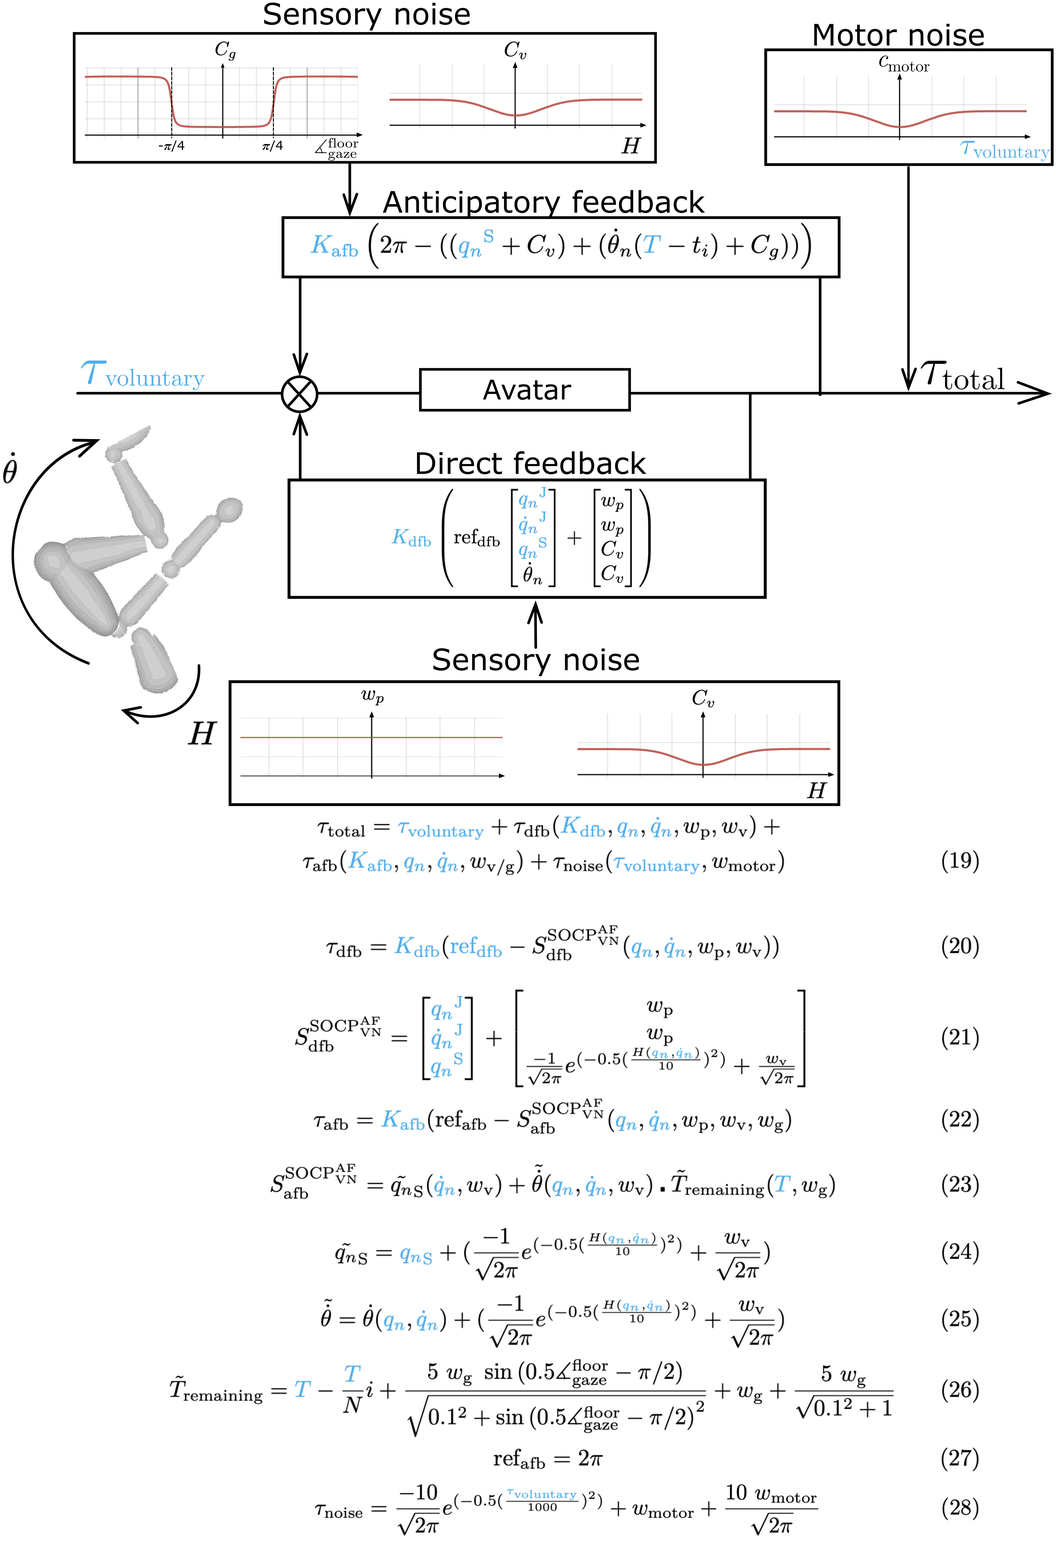
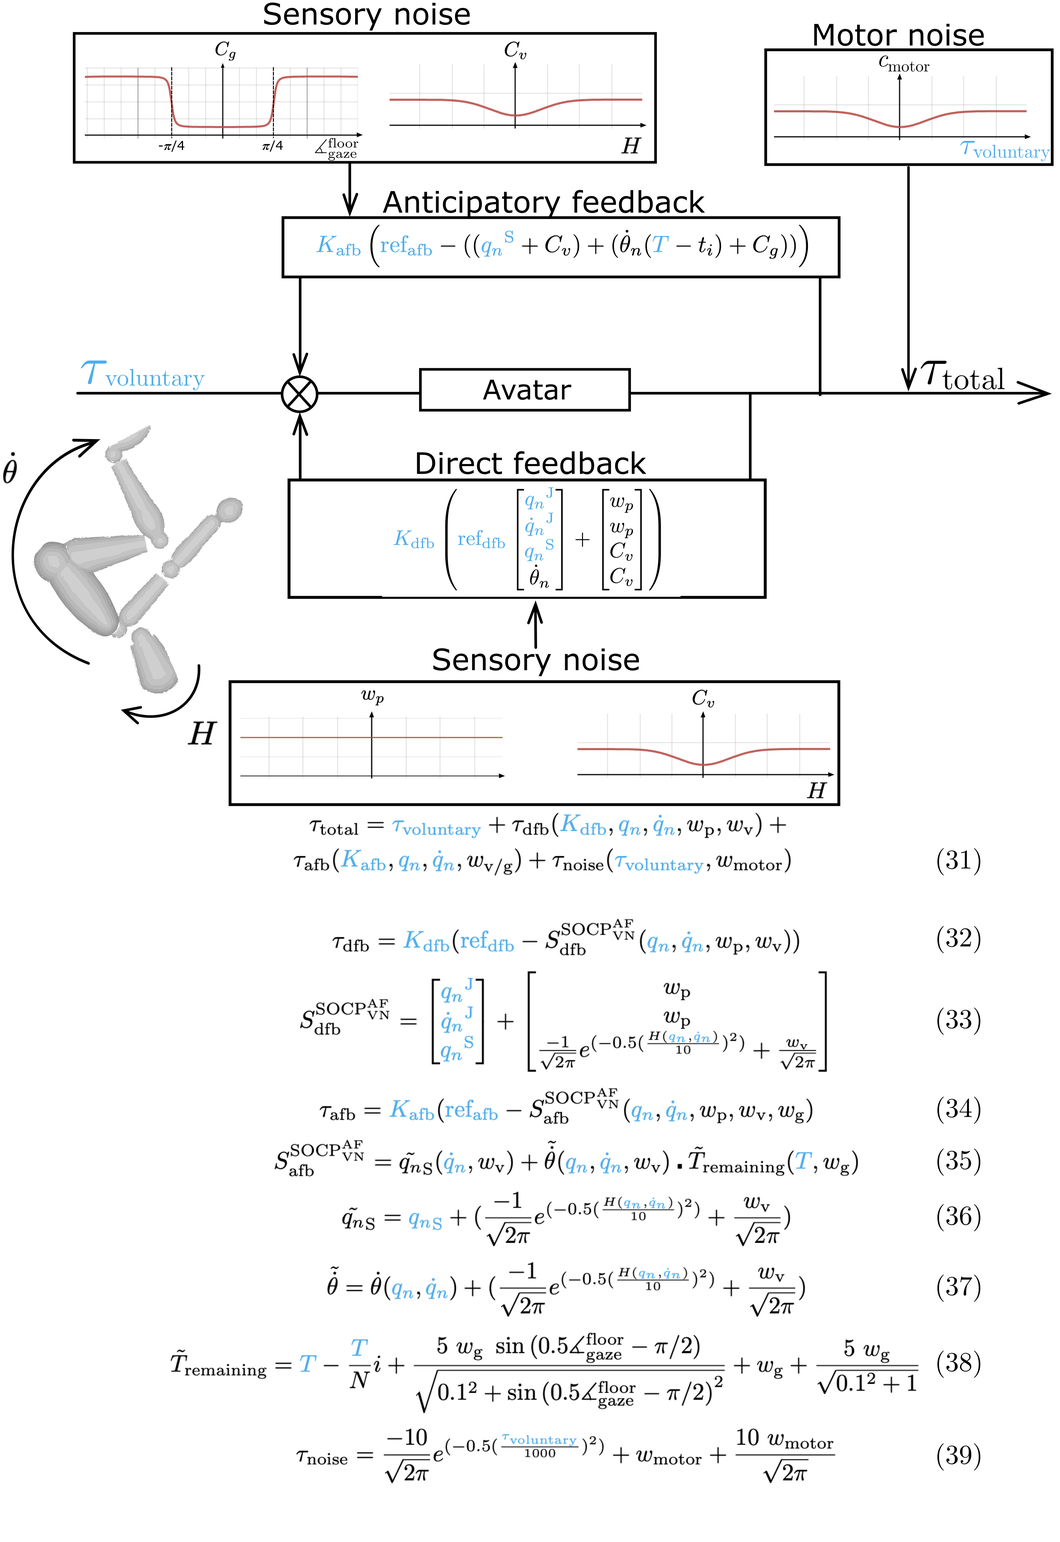
Final modifs before resending to co-authors

diff --git a/paper/plos_root.tex b/paper/plos_root.tex
@@ -312,7 +312,7 @@ One way humans cope with neuromuscular noise is by relying on sensory feedback t
 Leveraging optimal feedback control theory, these motor corrections have been incorporated into biomechanical predictive simulations by modelling motor noise and noisy sensory feedback \cite{todorov2004optimality}. 
 More recently, this stochastic optimal control framework was extended to complex musculoskeletal models with non-linear dynamics \cite{van2022approximate}. 
 This approach helped explain more complex motor control phenomena, such as how muscle co-contraction can be energy-efficient by helping cope with uncertainty \cite{van2022approximate, berret2024co}.
-However, even with these advances, current biomechanical stochastic predictive simulations still fall short of modelling sensory-acquisition strategies because \hl{the modelling of either the relationship between the states and sensory noise \mbox{\cite{van2022approximate}} or the system's dynamics \mbox{\cite{todorov2005stochastic}} is simplified}.
+However, even with these advances, current biomechanical stochastic predictive simulations still fall short of modelling sensory-acquisition strategies because \hl{they simplify the modelling of either the relationship between the states and sensory noise \mbox{\cite{van2022approximate}} or the system's dynamics \mbox{\cite{todorov2005stochastic}}}.
 
 
 Although sensory noise is difficult to measure experimentally, there is still evidence that sensory sensitivity depends on the state of the body \cite{mallery2010human, demer1993dynamic, kaptein2004interpretation}.
@@ -335,7 +335,7 @@ Proprioceptive information would be used by athletes to estimate their current j
 Visual information would be used to estimate the remaining time before ground contact \cite{bardy1998body}, and vestibular information would be used to estimate the athlete's somersault velocity.
 Combining these two pieces of information with proprioceptive information would enable anticipatory sensory feedback control through a forward model predicting the somersault angle at landing.
 These two types of feedback help athletes land with more balance by modifying inertia to adjust the somersault rotation velocity.
-\hl{Stochastic optimal control simulations generally only rely on open-loop control and direct sensory feedback control to actuate the skeletal model \mbox{\cite{van2022approximate, berret2024co}}, leaving aside anticipatory sensory feedback control.}
+\hl{Stochastic optimal control simulations generally rely only on open-loop control and direct sensory feedback control to actuate the skeletal model \mbox{\cite{van2022approximate, berret2024co}}, leaving aside anticipatory sensory feedback control.}
 Given evidence that athletes use anticipatory sensory feedback control during backward somersaults, predictive simulations must account for such control mechanisms.
 
 % Another shortcoming of the current implementations of stochastic optimal control is that they consider constant motor noise.
@@ -359,8 +359,7 @@ To better match and thus better understand athletes' behaviour, further predicti
 
 The primary aim of this study was to produce a predictive simulation from which an optimal sensorimotor strategy for the backward somersault would emerge.
 A torque-driven multi-body model governed by nonlinear dynamics under uncertainty was used.
-\hl{To cope with the motor noise, the avatar could use noisy vestibular, visual and proprioceptive information.
-These sensory information were used for direct and anticipatory feedback corrections.}
+\hl{To cope with the motor noise, the avatar could use noisy vestibular, visual, and proprioceptive information. This sensory information was used for direct and anticipatory feedback corrections.}
 We hypothesized that 
 \begin{itemize}
 	\item[\textbf{H1}] allowing the avatar to use direct sensory feedback would enable reducing landing variability;
@@ -410,13 +409,13 @@ The digital athlete was torque-actuated and governed by the non-linear multibody
 Whereas for the stochastic implementations (SOCP, \mbox{SOCP$_{\text{VN}}$}, \mbox{SOCP$^{\text{AF}}$}, \mbox{SOCP$_{\text{VN}}^{\text{AF}}$}) multiple techniques corrupted by different noise values were optimized simultaneously to find a unique control strategy (open-loop joint torques and feedback gains) that optimizes the performance of all techniques.}
 	
 The optimal policies were computed using a composite cost function, where the main objective was to minimize landing condition variability \hl{(\mbox{$\phi_1$})}, measured as the sum of the variances (n=20) of the CoM horizontal position \hl{in \mbox{$m$}}, CoM horizontal velocity in \hl{\mbox{$\nicefrac{m}{s}$}}, and body angular velocity \hl{(computed as the angular momentum divided by the moment of inertia)} in \mbox{$\nicefrac{rad}{s}$} at the end of the movement.
-Other terms minimized the expected efforts \hl{(\mbox{$\phi_2$})}; \hl{joint torques in \mbox{$Nm$}}) and the expected \hl{time derivative of} efforts \hl{(\mbox{$\phi_3$})}; \hl{joint torques derivative in \mbox{$\nicefrac{Nm}{s}$}}).
+Other terms minimized the expected efforts \hl{(\mbox{$\phi_2$}; joint torques in \mbox{$Nm$})} and the expected \hl{time derivative of} efforts \hl{(\mbox{$\phi_3$}; joint torques derivative in \mbox{$\nicefrac{Nm}{s}$})}.
 Finally, regularization terms encouraged a realistic motion: minimizing the direct feedback gains \hl{(\mbox{$\phi_4$})}, the \hl{time derivative of the} direct feedback gains \hl{(\mbox{$\phi_5$})}, and the duration of the movement \hl{in \mbox{$s$}} to avoid landing in a crouched posture \hl{(\mbox{$\phi_6$})}.
-\hl{For the deterministic implementation (OCP), the landing condition variability (\mbox{$\phi_1$}), feedback gains (\mbox{$\phi_4$}), and time derivative of the direct feedback gains (\mbox{$\phi_5$}) terms were set to zero in the cost function. However, to compare the robustness of this technique with the other implementations, the landing condition variability was computed post-optimization. Motor noise was randomly sampled and added to the optimal joint torques and a series of forward simulations were performed.}
+\hl{For the deterministic implementation (OCP), the landing condition variability (\mbox{$\phi_1$}), feedback gains (\mbox{$\phi_4$}), and time derivative of the direct feedback gains (\mbox{$\phi_5$}) terms were set to zero in the cost function. However, to compare the robustness of this technique with the other implementations, the landing condition variability was computed post-optimization. Motor noise was randomly sampled and added to the optimal joint torques, and a series of forward simulations was performed.}
 
 An optimal solution was reached for all implementations.
 %, despite the large problem sizes (OCP: 303 variables, SOCP: 5625 variables, SOCP$_{\text{VN}}$: 5625 variables, SOCP$^{\text{AF}}$: 6562 variables, SOCP$_{\text{VN}}^{\text{AF}}$: 6562 variables).
-The optimization lasted a few seconds for the deterministic version (OCP), and in a few weeks for the stochastic versions (SOCP, SOCP$_{\text{VN}}$, SOCP$^{\text{AF}}$, SOCP$_{\text{VN}}^{\text{AF}}$).
+The optimization lasted a few seconds for the deterministic version (OCP), and a few weeks for the stochastic versions (SOCP, SOCP$_{\text{VN}}$, SOCP$^{\text{AF}}$, SOCP$_{\text{VN}}^{\text{AF}}$).
 \hl{The optimal cost differed between implementation (OCP: 331.25, SOCP: 4928.34, \mbox{SOCP$_{\text{VN}}$}: 106.26, \mbox{SOCP$^{\text{AF}}$}: 98.52, \mbox{SOCP$_{\text{VN}}^{\text{AF}}$}: 87.70), with \mbox{SOCP$_{\text{VN}}^{\text{AF}}$} reaching the lowest cost function value.}
 
 
@@ -438,7 +437,7 @@ The smallest landing variability was achieved with the SOCP$_{\text{VN}}^{\text{
 
 \begin{figure}[H]
 \centering
-\includegraphics[width=1.0\linewidth]{figures/landing_variability.png}
+\includegraphics[width=1.0\linewidth]{figures/landing_variability_abcd.png}
 \caption{The three landing components (\hl{a)} center of mass horizontal position, \hl{b)} center of mass horizontal velocity, and \hl{c)} body angular velocity) with their variability (n=20 episodes) for the backward somersault generated with the \textcolor{OCP_color}{OCP} (green), \textcolor{SOCP_color}{SOCP} (pink), \textcolor{SOCP_VARIABLE_color}{SOCP$_{\text{VN}}$} (orange), \textcolor{SOCP_FEEDFORWARD_color}{SOCP$^{\text{AF}}$} (purple), and \textcolor{SOCP_plus_color}{SOCP$_{\text{VN}}^{\text{AF}}$} (blue) implementations. The value for each episode is depicted with a dot, the mean over all episodes is depicted with a square, and the standard deviation range is depicted with a box and written above the box plot. \hl{d) The weighted sum of all landing variability terms for each implementation.}}
 \label{fig:landing_variability}
 \end{figure}
@@ -577,7 +576,7 @@ In line with our fourth hypothesis (H4), \hl{the optimal technique of our most a
 \hl{Anticipatory feedback gains generally increased during periods of higher visual and vestibular acuity, the former provided by the gaze-on-floor strategy and the latter by the head stabilization strategy. This suggests that these kinematic features may have a sensory acquisition origin.}
 
 \hl{However, a contradictory result emerged from the stochastic implementation with only anticipatory feedback (\mbox{SOCP$^{\text{AF}}$}).
-It exhibited a similar temporal evolution of anticipatory feedback gains, despite sensory acuity being modelled as independent from the state variables.
+It exhibited a similar temporal evolution of anticipatory feedback gains as \mbox{SOCP$_{\text{VN}}^{\text{AF}}$}, despite sensory acuity being modelled as independent from the state variables.
 Thus, head stabilization and gaze-on-floor strategies have no effect on sensory noise in this condition. 
 This unexpected result indicates that the anticipatory feedback gain temporal evolution may also have a biomechanical origin. 
 Notably, high gains coincided with hip flexion moments, which must be precisely executed to achieve consistent landing.
@@ -642,7 +641,7 @@ F(q, \dot{q}) :
 
 \subsection{Discretized stochastic optimal control framework}\label{subsec:methods_DSOCP}
 
-To transcribe the stochastic optimal control problems into a solvable deterministic optimal control problem, the motor and sensory noises were sampled from a Gaussian distribution at 20 different instances, as in \cite{afschrift2018increased, koelewijn2020solution}.
+To transcribe the stochastic optimal control problems into a solvable deterministic optimal control problem, the motor and sensory noises were sampled from a Gaussian distribution at 20 different instances, as in \hl{\mbox{\cite{afschrift2018increased, koelewijn2020solution}}}.
 \hl{In other words, we solved for a common motor plan (\mbox{$\textcolor{gray}{\tau_{\text{voluntary}}}$} and \mbox{$\textcolor{gray}{K}$}} \footnote{\hl{To simplify interpretation, each optimization variable is presented in colour.}}) \hl{controlling 20 executions of the task, each with different random motor and sensory noise values and thus different state values.}
 The number of noise samples (referred to as episodes) was chosen based on the analysis in Koelewijn \& Van den Bogert \cite{koelewijn2020solution}.
 They showed that the cost function value varied by less than 1\% when using 20 or more samples.The constant part of the motor and sensory noises ($w_{\circ}$) were sampled from a Gaussian distribution with a standard deviation of \hl{\mbox{$0.125~Nm\sqrt{s}$}} for the joint torque motor noise, \hl{\mbox{$\num{7.16e-4}\degree\sqrt{s}$}} for the joint angle proprioception, \hl{\mbox{$\num{6.45e-3}\degree/\sqrt{s}$}} for the joint velocity proprioception inputs, \hl{\mbox{$\num{7.16e-4}\degree\sqrt{s}$}} and \hl{\mbox{$\num{7.16e-4}\degree/\sqrt{s}$}} for the vestibular input, and \hl{\mbox{$\num{1.25e-5}~s^{\nicefrac{3}{2}}$}} for the visual inputs. 
@@ -747,7 +746,7 @@ The torques applied to the joints were only composed of the voluntary motor comm
 \begin{figure}[H]
 \centering
 \includegraphics[width=1.0\linewidth]{figures/ocp.png}
-\caption{A schematic and mathematical representation of the torques applied to the joints in the OCP implementation, with equation 2.}
+\caption{A schematic and mathematical representation of the torques applied to the joints in the OCP implementation, with equation 15.}
 \label{fig:ocp}
 \end{figure}
 
@@ -810,13 +809,13 @@ The sensory information was corrupted by random noise (\hl{proprioceptive noise}
 \begin{figure}[H]
 \centering
 \includegraphics[width=1.0\linewidth]{figures/socp.png}
-\caption{A schematic and mathematical representation of the torques applied to the joints in the SOCP implementation, with equations 3-6. The $._n$ indices relate to the $n^{th}$ episode.}
+\caption{A schematic and mathematical representation of the torques applied to the joints in the SOCP implementation, with equations 16-19. The $._n$ indices relate to the $n^{th}$ episode.}
 \label{fig:socp}
 \end{figure}
 
 
 \newpage
-\subsubsection{Stochastic optimal control problem with variable noises (\textcolor{SOCP_VARIABLE_color}{SOCP$_{\text{VN}}$})}\label{subsec:SOCPV}
+\subsubsection{Stochastic optimal control problem with variable-dependent noise (\textcolor{SOCP_VARIABLE_color}{SOCP$_{\text{VN}}$})}\label{subsec:SOCPV}
 Our first improvement to the SOCP implementation was to consider signal-dependent ($\textcolor{SOCP_VARIABLE_color}{\tau_{\text{voluntary}}}$) motor noise and state-dependent ($\textcolor{SOCP_VARIABLE_color}{q}, \textcolor{SOCP_VARIABLE_color}{\dot{q}}$) sensory noise (Fig.~\ref{fig:socp_variable}).
 The torques applied to the joints were composed of the voluntary motor command ($\textcolor{SOCP_VARIABLE_color}{\tau_{\text{voluntary}}}$), direct feedback corrections ($\tau_{\text{dfb}}$), and motor noise ($\tau_{\text{noise}}$).
 The direct feedback corrections were identical to those in the SOCP implementation.
@@ -875,7 +874,7 @@ The motor command was corrupted by signal-dependent random noise ($c_{motor}$) t
 \begin{figure}[H]
 \centering
 \includegraphics[width=1.0\linewidth]{figures/socp_variable.png}
-\caption{A schematic and mathematical representation of the torques applied to the joints in the SOCP$_{\text{VN}}$ implementation, with equations 7-10.}
+\caption{A schematic and mathematical representation of the torques applied to the joints in the SOCP$_{\text{VN}}$ implementation, with equations 20-23.}
 \label{fig:socp_variable}
 \end{figure}
 
@@ -893,7 +892,7 @@ The random motor and sensory noise were directly sampled from a Gaussian distrib
 
 
 % \begin{equation}
-% \textcolor{SOCP_FEEDFORWARD_color}{K_{\text{dfb}}} \left({\text{ref}}_{\text{dfb}} 
+% \textcolor{SOCP_FEEDFORWARD_color}{K_{\text{dfb}}} \left(\textcolor{SOCP_FEEDFORWARD_color}{{\text{ref}}_{\text{dfb}}} 
 % \begin{bmatrix}
 % \textcolor{SOCP_FEEDFORWARD_color}{{q_n}^{\text{J}}} \\
 % \textcolor{SOCP_FEEDFORWARD_color}{\mathop{\dot{q}_n}^{\text{J}}} \\
@@ -910,7 +909,7 @@ The random motor and sensory noise were directly sampled from a Gaussian distrib
 % \end{equation}
 
 % \begin{equation}
-% \textcolor{SOCP_FEEDFORWARD_color}{K_{\text{afb}}} \left(2\pi - (\textcolor{SOCP_FEEDFORWARD_color}{{q_n}^{\text{S}}} + \dot{\theta}_n (\textcolor{SOCP_FEEDFORWARD_color}{T} - t_i)) + w_v \right)
+% \textcolor{SOCP_FEEDFORWARD_color}{K_{\text{afb}}} \left(\textcolor{SOCP_FEEDFORWARD_color}{\text{ref}_{\text{afb}}} - (\textcolor{SOCP_FEEDFORWARD_color}{{q_n}^{\text{S}}} + \dot{\theta}_n (\textcolor{SOCP_FEEDFORWARD_color}{T} - t_i)) + w_v \right)
 % \end{equation}
 
 % \begin{eqnarray}
@@ -935,7 +934,7 @@ The random motor and sensory noise were directly sampled from a Gaussian distrib
 % \end{bmatrix}
 % \end{equation}
 % \begin{equation}
-% \tau_{\text{afb}} = \textcolor{SOCP_FEEDFORWARD_color}{K_{\text{afb}}} (\text{ref}_{\text{afb}} - S_{\text{afb}}^{\text{SOCP}^{\text{AF}}}(\textcolor{SOCP_FEEDFORWARD_color}{q_n}, \textcolor{SOCP_FEEDFORWARD_color}{\dot{q}_n}, w_{\text{p}}, w_{\text{v/g}})
+% \tau_{\text{afb}} = \textcolor{SOCP_FEEDFORWARD_color}{K_{\text{afb}}} (\textcolor{SOCP_FEEDFORWARD_color}{\text{ref}_{\text{afb}}} - S_{\text{afb}}^{\text{SOCP}^{\text{AF}}}(\textcolor{SOCP_FEEDFORWARD_color}{q_n}, \textcolor{SOCP_FEEDFORWARD_color}{\dot{q}_n}, w_{\text{p}}, w_{\text{v/g}})
 % \end{equation}
 % \begin{equation}
 % S_{\text{afb}}^{\text{SOCP}^{\text{AF}}} = \textcolor{SOCP_FEEDFORWARD_color}{{q_n}_{\text{S}}} + \dot{\theta}(\textcolor{SOCP_FEEDFORWARD_color}{q_n}, \textcolor{SOCP_FEEDFORWARD_color}{\dot{q}_n}) \centerdot T_{\text{remaining}}(\textcolor{SOCP_FEEDFORWARD_color}{T}) + w_{\text{v/g}}
@@ -944,22 +943,19 @@ The random motor and sensory noise were directly sampled from a Gaussian distrib
 % \tilde{T}_{\text{remaining}} = \textcolor{SOCP_FEEDFORWARD_color}{T} - t_i
 % \end{equation}
 % \begin{equation}
-% \text{ref}_{\text{afb}} = 2\pi
-% \end{equation}
-% \begin{equation}
 % \tau_{\text{noise}} = w_{\text{motor}}
 % \end{equation}
 
 \begin{figure}[H]
 \centering
 \includegraphics[width=1.0\linewidth]{figures/socp_feedforward.png}
-\caption{A schematic and mathematical representation of the torques applied to the joints in the SOCP$^{\text{AF}}$ implementation, with equations 11-18. The index ${.}_i$ relates to the $i^{th}$ shooting node.}
+\caption{A schematic and mathematical representation of the torques applied to the joints in the SOCP$^{\text{AF}}$ implementation, with equations 24-30. The index ${.}_i$ relates to the $i^{th}$ shooting node.}
 \label{fig:socp_feedforward}
 \end{figure}
 
 
 \newpage
-\subsubsection{Stochastic optimal control problem with anticipatory feedback and variable noises (\textcolor{SOCP_plus_color}{SOCP$_{\text{VN}}^{\text{AF}}$})}\label{subsec:SOCP_plus}
+\subsubsection{Stochastic optimal control problem with anticipatory feedback and variable-dependent noise (\textcolor{SOCP_plus_color}{SOCP$_{\text{VN}}^{\text{AF}}$})}\label{subsec:SOCP_plus}
 Our most advanced stochastic implementation considered signal-dependent ($\textcolor{SOCP_plus_color}{\tau_{\text{voluntary}}}$) motor noise and state-dependent ($\textcolor{SOCP_plus_color}{q}, \textcolor{SOCP_plus_color}{\dot{q}}$) sensory noise (Fig.~\ref{fig:socp_plus}) and anticipatory feedback corrections ($\tau_{\text{afb}}$), \textit{i.e.}, the combination of the improvements from SOCP$_{\text{VN}}$ anf SOCP$^{\text{AF}}$.
 The torques applied to the joints were also composed of the voluntary motor command ($\textcolor{SOCP_plus_color}{\tau_{\text{voluntary}}}$), direct feedback corrections ($\tau_{\text{dfb}}$), and motor noise ($\tau_{\text{noise}}$).
 The direct feedback corrections were identical to those of the SOCP implementation, and the anticipatory feedback corrections were identical to those of the SOCP$^{\text{AF}}$ implementation.
@@ -968,7 +964,7 @@ The direct feedback corrections were identical to those of the SOCP implementati
 The motor command was corrupted by signal-dependent random noise ($c_{motor}$) through an inverted Gaussian function, such that the precision of the joint torques decreased as the voluntary motor command increased.
 
 % \begin{equation}
-% \textcolor{SOCP_plus_color}{K_{\text{dfb}}} \left({\text{ref}}_{\text{dfb}} 
+% \textcolor{SOCP_plus_color}{K_{\text{dfb}}} % \left(\textcolor{SOCP_plus_color}{{\text{ref}}_{\text{dfb}}}
 % \begin{bmatrix}
 % \textcolor{SOCP_plus_color}{{q_n}^{\text{J}}} \\
 % \textcolor{SOCP_plus_color}{\mathop{\dot{q}_n}^{\text{J}}} \\
@@ -985,7 +981,7 @@ The motor command was corrupted by signal-dependent random noise ($c_{motor}$) t
 % \end{equation}
 
 % \begin{equation}
-% \textcolor{SOCP_plus_color}{K_{\text{afb}}} \left(2\pi - ((\textcolor{SOCP_plus_color}{{q_n}^{\text{S}}} + C_v) + (\dot{\theta}_n (\textcolor{SOCP_plus_color}{T} - t_i) + C_g)) \right)
+% \textcolor{SOCP_plus_color}{K_{\text{afb}}} \left(\textcolor{SOCP_plus_color}{\text{ref}_{\text{afb}}} - ((\textcolor{SOCP_plus_color}{{q_n}^{\text{S}}} + C_v) + (\dot{\theta}_n (\textcolor{SOCP_plus_color}{T} - t_i) + C_g)) \right)
 % \end{equation}
 
 % \begin{eqnarray}
@@ -1011,7 +1007,7 @@ The motor command was corrupted by signal-dependent random noise ($c_{motor}$) t
 % \end{bmatrix}
 % \end{equation}
 % \begin{equation}
-% \tau_{\text{afb}} = \textcolor{SOCP_plus_color}{K_{\text{afb}}} (\text{ref}_{\text{afb}} - S_{\text{afb}}^{\text{SOCP}_{\text{VN}}^{\text{AF}}}(\textcolor{SOCP_plus_color}{q_n}, \textcolor{SOCP_plus_color}{\dot{q}_n}, w_{\text{p}}, w_{\text{v}}, w_{\text{g}})
+% \tau_{\text{afb}} = \textcolor{SOCP_plus_color}{K_{\text{afb}}} (\textcolor{SOCP_plus_color}{\text{ref}_{\text{afb}}} - S_{\text{afb}}^{\text{SOCP}_{\text{VN}}^{\text{AF}}}(\textcolor{SOCP_plus_color}{q_n}, \textcolor{SOCP_plus_color}{\dot{q}_n}, w_{\text{p}}, w_{\text{v}}, w_{\text{g}})
 % \end{equation}
 % \begin{equation}
 % S_{\text{afb}}^{\text{SOCP}_{\text{VN}}^{\text{AF}}} = {\tilde{q_n}}_{\text{S}}(\textcolor{SOCP_plus_color}{\dot{q}_n}, w_{\text{v}}) + \tilde{\dot{\theta}}(\textcolor{SOCP_plus_color}{q_n}, \textcolor{SOCP_plus_color}{\dot{q}_n}, w_{\text{v}}) \centerdot \tilde{T}_{\text{remaining}}(\textcolor{SOCP_plus_color}{T}, w_{\text{g}})
@@ -1027,16 +1023,13 @@ The motor command was corrupted by signal-dependent random noise ($c_{motor}$) t
 % \tilde{T}_{\text{remaining}} = \textcolor{SOCP_plus_color}{T} - \frac{\textcolor{SOCP_plus_color}{T}}{N} i + \frac{5~w_{\text{g}}~\sin{(0.5 \measuredangle_{\text{gaze}}^{\text{floor}} - \pi / 2)}}{\sqrt{0.1^2 + \sin{(0.5 \measuredangle_{\text{gaze}}^{\text{floor}} - \pi / 2)}^2}} + w_{\text{g}} + \frac{5~w_{\text{g}}}{\sqrt{0.1^2 + 1}}
 % \end{equation}
 % \begin{equation}
-% \text{ref}_{\text{afb}} = 2\pi
-% \end{equation}
-% \begin{equation}
 % \tau_{\text{noise}} = \frac{-10}{\sqrt{2 \pi}} e^{(-0.5 (\frac{\textcolor{SOCP_plus_color}{\tau_{\text{voluntary}}}}{1000})^2)} + w_{\text{motor}} + \frac{10~w_{\text{motor}}}{\sqrt{2 \pi}}
 % \end{equation}
 
 \begin{figure}[H]
 \centering
 \includegraphics[width=1.0\linewidth]{figures/socp_plus.png}
-\caption{A schematic and mathematical representation of the torques applied to the joints in the SOCP$_{\text{VN}}^{\text{AF}}$ implementation, with equation 19-28. The $\tilde{.}$ symbol represents corrupted sensory information.}
+\caption{A schematic and mathematical representation of the torques applied to the joints in the SOCP$_{\text{VN}}^{\text{AF}}$ implementation, with equation 31-39. The $\tilde{.}$ symbol represents corrupted sensory information.}
 \label{fig:socp_plus}
 \end{figure}
 
@@ -1095,7 +1088,7 @@ Notably, the final state mean and distribution were almost the same between the 
 \begin{figure}[H]
 \centering
 \includegraphics[width=1.0\linewidth]{figures/comparison_reintegration.png}
-\caption{\hl{Reintegration of the optimal solutions for the OCP (\mbox{\textcolor{OCP_color}{green}}), SOCP (\mbox{\textcolor{SOCP_color}{pink}}), \mbox{SOCP$_{\text{VN}}$} (\mbox{\textcolor{SOCP_VARIABLE_color}{orange}}), \mbox{SOCP$^{\text{AF}}$} (\mbox{\textcolor{SOCP_FEEDFORWARD_color}{purple}}), and \mbox{SOCP$_{\text{VN}}^{\text{AF}}$} (\mbox{\textcolor{SOCP_plus_color}{blue}}). Thin and pale lines represent the post-optimization reintegrations (n=100), bold and dark lines represent each episodes from the optimization (n=20), and black lines represent the mean across episodes. Box plots on the right of the graphs present the mean (square), standard deviation (box), and maximum range (whiskers) from the reintegrations.}}
+\caption{\hl{Reintegration of the optimal solutions for the OCP (\mbox{\textcolor{OCP_color}{green}}), SOCP (\mbox{\textcolor{SOCP_color}{pink}}), \mbox{SOCP$_{\text{VN}}$} (\mbox{\textcolor{SOCP_VARIABLE_color}{orange}}), \mbox{SOCP$^{\text{AF}}$} (\mbox{\textcolor{SOCP_FEEDFORWARD_color}{purple}}), and \mbox{SOCP$_{\text{VN}}^{\text{AF}}$} (\mbox{\textcolor{SOCP_plus_color}{blue}}). Thin and pale lines represent the post-optimization reintegrations (n=100), bold and dark lines represent each episode from the optimization (n=20), and black lines represent the mean across episodes. Box plots on the right of the graphs present the mean (square), standard deviation (box), and maximum range (whiskers) from the reintegrations.}}
 \label{fig:reintegration}
 \end{figure}
 
